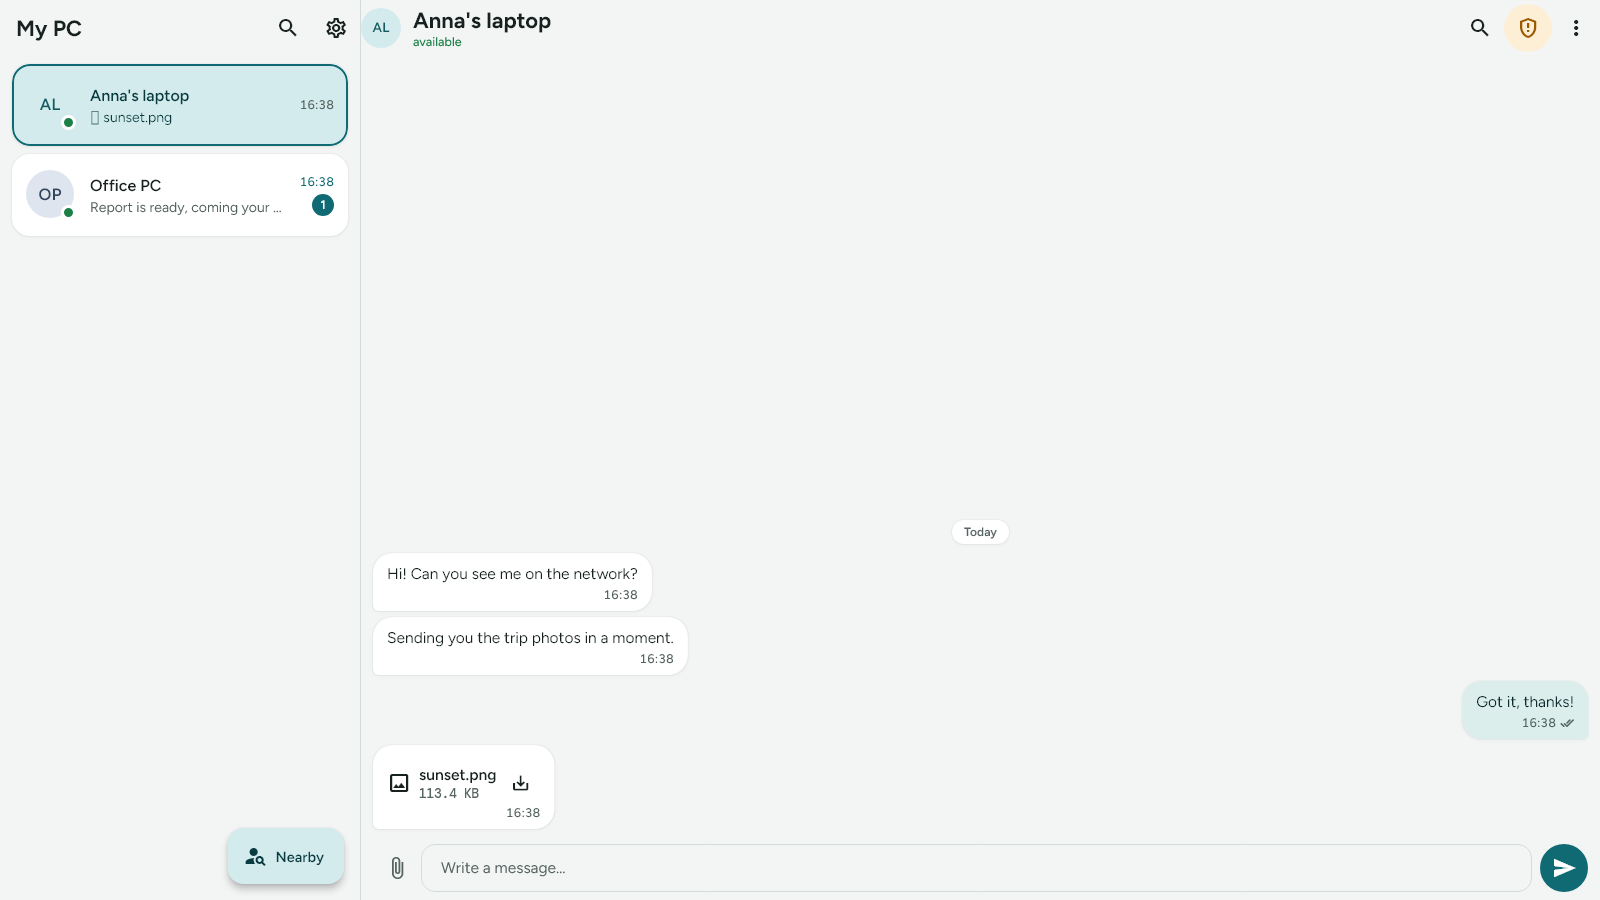
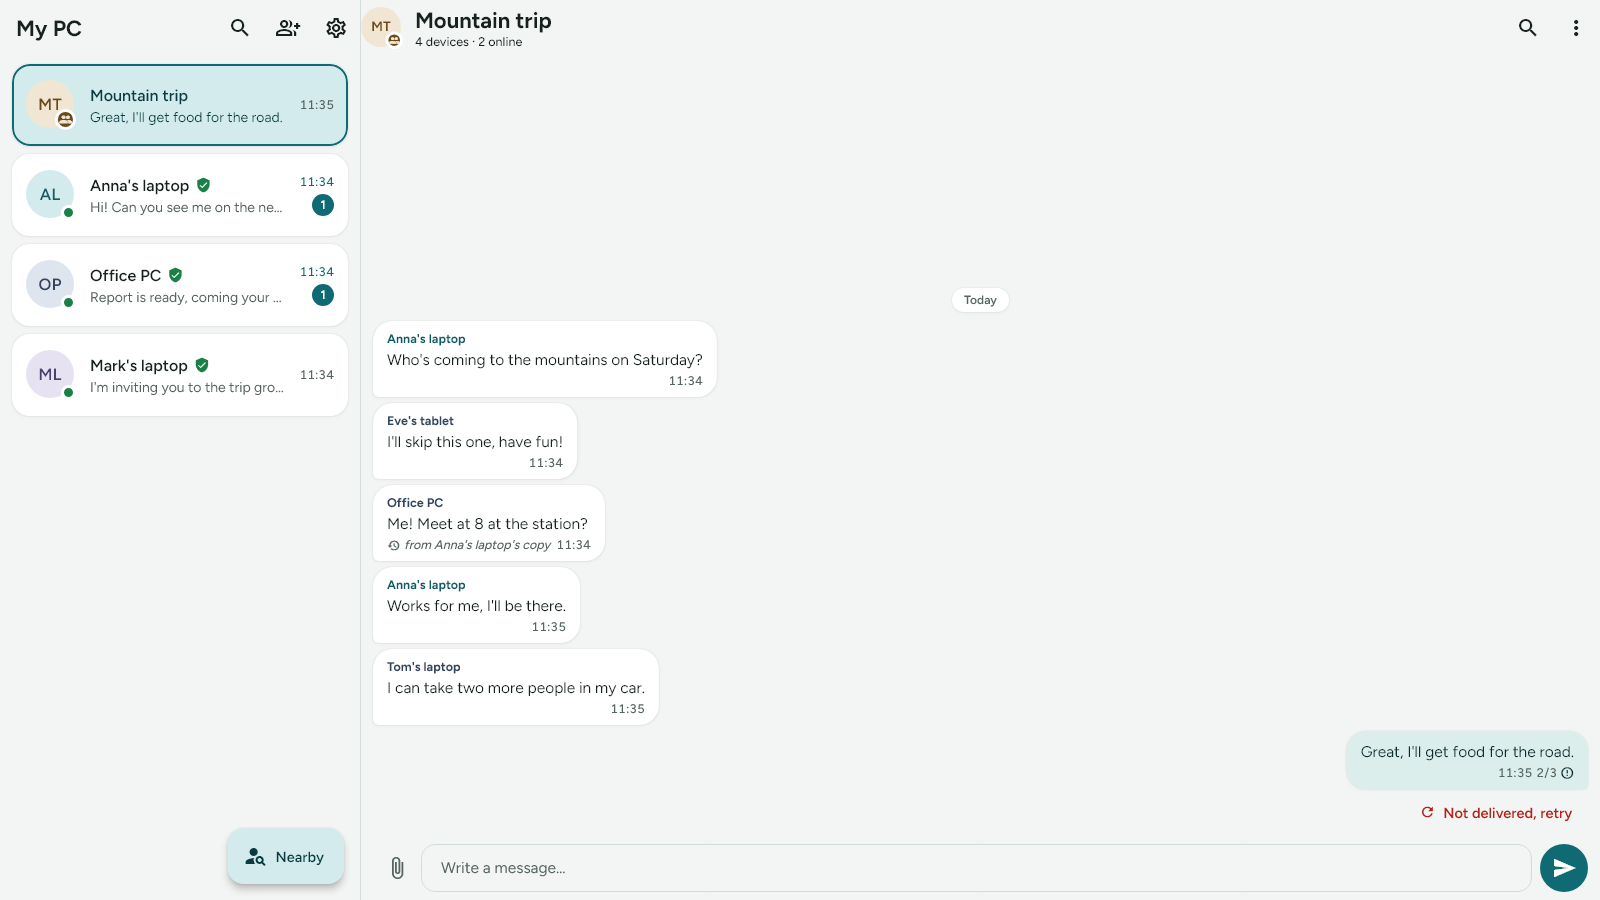
chatt: a short What it does with groups, new pictures from 0.15.0
What it does keeps six cards taken from the README, Group conversations
among them, and one line for the add-ons. The add-ons heading and the long
cards are gone, and the stylesheet is back to master.

How it looks gets new pictures of 0.15.0, made with Chatt's own tools: on
the phone a conversation with a file, the request to accept a file and
search in a conversation, which takes the place of Nearby; on Windows a
group conversation in two panes.

diff --git a/chatt/index.html b/chatt/index.html
@@ -89,146 +89,60 @@
   <div class="wrap">
     <h2 id="features">What it does</h2>
     <p class="intro">
-      Conversations with one device or a whole group, file transfers the
-      receiver agrees to, and encryption from the first message on.
+      Conversations with history, file transfers the receiver agrees to, and
+      encryption from the first message on.
     </p>
 
     <div class="features">
       <div class="feature">
         <h3>Finds devices by itself</h3>
         <p>
-          One broadcast across the network and the devices see each other. When
-          the router isolates its clients, you add the other device by IP
-          address.
-        </p>
-      </div>
-      <div class="feature">
-        <h3>Messages with a state</h3>
-        <p>
-          Stored on your side, delivered, acknowledged. A failed one retries
-          with a single click, and when the other person's address changes, the
-          app finds them again by identity.
+          One broadcast and the devices see each other. When a router isolates
+          its clients, you add the other device by IP address.
         </p>
       </div>
       <div class="feature">
         <h3>Group conversations</h3>
         <p>
-          Up to 32 devices in one conversation, still with no server. Each
-          message goes from its author straight to every member, and a device
-          that was away catches up when it meets the others again. Only the
-          owner adds or removes devices, and each one joins only after saying
-          yes.
+          One conversation between several devices, up to 32, and still no
+          server. Each message goes from its author straight to every member.
         </p>
       </div>
       <div class="feature">
-        <h3>Files only with consent</h3>
+        <h3>Files with consent</h3>
         <p>
-          The receiver first sees the name, the size and the checksum. An
-          interrupted transfer resumes where it stopped and is verified with
-          sha256.
-        </p>
-      </div>
-      <div class="feature">
-        <h3>Share from any app</h3>
-        <p>
-          A link from the browser, a photo from the gallery, a document from the
-          file manager: Chatt sits in Android's Share sheet, and the chosen
-          conversation opens with the text in the field and the files above it.
-          Nothing leaves before you press Send.
+          The receiver sees the name, the size and the checksum first, and the
+          bytes flow only after accepting. Interrupted transfers resume.
         </p>
       </div>
       <div class="feature">
         <h3>History comes back</h3>
         <p>
           After a reinstall or on a new phone, the other device hands its copy
-          of the conversation back, with the files if you want them. Nothing
-          moves until the other side says yes on a card.
+          of the conversation back, with the files or without.
         </p>
       </div>
       <div class="feature">
-        <h3>History encrypted on disk</h3>
+        <h3>Works in the background</h3>
         <p>
-          The conversation database sits encrypted, and the system holds the
-          key: Keystore on Android, DPAPI on Windows.
-        </p>
-      </div>
-      <div class="feature">
-        <h3>Your data in one file</h3>
-        <p>
-          Export data writes one ZIP with the conversations, the devices, the
-          settings and, if you like, the received files, as JSON for programs
-          and text for reading. No private, session or database key goes into
-          it.
-        </p>
-      </div>
-      <div class="feature">
-        <h3>A log for when something fails</h3>
-        <p>
-          Thirty days of what the app did and what went wrong, kept in the
-          encrypted database and never with message text, typed text or keys.
-          Export it alone to attach to a bug report.
-        </p>
-      </div>
-      <div class="feature">
-        <h3>Listens in the background</h3>
-        <p>
-          A foreground service on Android, a tray icon on Windows. Messages
-          arrive with the window closed.
-        </p>
-      </div>
-      <div class="feature">
-        <h3>Links with a preview</h3>
-        <p>
-          A link in a message can show the page's title, description and image,
-          and opening one always asks first and shows which server it really
-          leads to. Previews stay off until you turn them on.
+          The phone receives with the window closed and the screen off. On
+          Windows the app sits in the tray and can start with the system.
         </p>
       </div>
       <div class="feature">
         <h3>Three styles, two languages</h3>
         <p>
-          Calm, Precise and Warm, each light and dark, with four backgrounds or
-          none. English and Polish, two panes in a wide window, one screen on a
-          phone.
+          Calm, Precise and Warm, each in a light and a dark theme. English and
+          Polish.
         </p>
       </div>
     </div>
 
-    <h2 id="add-ons">Add-ons</h2>
-    <p class="intro">
-      Each sits behind its own switch in Settings, off from the start. An add-on
-      that is off shows on no other screen and starts nothing.
+    <p class="note">
+      <b>Add-ons</b> for what most people never need, each behind its own
+      switch in Settings and off from the start: Bluetooth, Internet
+      (experimental) and Keyboard from a PC.
     </p>
-
-    <div class="features">
-      <div class="feature">
-        <h3>Bluetooth with no shared network</h3>
-        <p>
-          For a guest network that keeps devices apart, mobile data or a room
-          with no router. The same messages and files go over the radio within
-          some ten metres, and the app picks the road by itself.
-        </p>
-      </div>
-      <div class="feature">
-        <h3>Over the internet, experimental</h3>
-        <p>
-          A confirmed device on another network, say a PC at home and a phone on
-          mobile data. Messages and files go straight between the two and are
-          never stored on a server, though not every network lets them through.
-          Public STUN servers and BitTorrent DHT nodes see the IP address and
-          when it connects. None of them sees the content.
-        </p>
-      </div>
-      <div class="feature">
-        <h3>Keyboard from a PC</h3>
-        <p>
-          Tap a field on the phone and type into it with the computer's
-          keyboard, in any app. The phone asks first, Stop stays on screen for
-          as long as it lasts, and both devices keep a history of what was
-          typed.
-        </p>
-      </div>
-    </div>
   </div>
 </section>
 
@@ -258,18 +172,15 @@
       <figcaption>Asked before receiving</figcaption>
     </figure>
     <figure>
-      <img src="img/nearby.png" alt="A list of devices found on the network" loading="lazy" decoding="async">
-      <figcaption>Devices nearby</figcaption>
+      <img src="img/search.png" alt="Search inside a conversation, with the matches highlighted" loading="lazy" decoding="async">
+      <figcaption>Search in a conversation</figcaption>
     </figure>
   </div>
   <figure class="shot-wide">
-    <img src="img/windows.png" alt="Chatt on Windows in its two-pane layout" loading="lazy" decoding="async">
-  </figure>
-  <figure class="shot-wide">
-    <img src="img/group.png" alt="A group conversation of four devices on Windows" loading="lazy" decoding="async">
+    <img src="img/windows.png" alt="Chatt on Windows: a group conversation in two panes" loading="lazy" decoding="async">
     <figcaption>
-      A group of four devices. Every message names its author, and yours counts
-      its deliveries: here two of three, with a retry for the one it missed.
+      A group on a PC: each message names its author, and yours counts its
+      deliveries.
     </figcaption>
   </figure>
 </section>
@@ -286,7 +197,8 @@
         <h3>Encrypted from the first message</h3>
         <p>
           Every connection agrees on its own key. Recorded traffic stays
-          unreadable even after a device is stolen.
+          unreadable even after a device is stolen, and the history on disk is
+          encrypted too.
         </p>
       </div>
       <div class="feature">

diff --git a/assets/style.css b/assets/style.css
@@ -170,9 +170,6 @@ section p.intro { color: var(--text-quiet); margin: 0 0 32px; max-width: 620px; 
 .features { display: grid; grid-template-columns: repeat(auto-fill, minmax(min(280px, 100%), 1fr)); gap: 28px; }
 .feature h3 { margin: 0 0 6px; font-size: 17px; }
 .feature p { margin: 0; color: var(--text-quiet); font-size: 15px; }
-/* A band can hold a second set of cards under a heading of its own, as the
-   add-ons do on the Chatt page. */
-.features + h2 { margin-top: 56px; }
 
 /* Screenshots */
 .shots { display: grid; grid-template-columns: repeat(auto-fit, minmax(min(210px, 100%), 1fr)); gap: 20px; }
